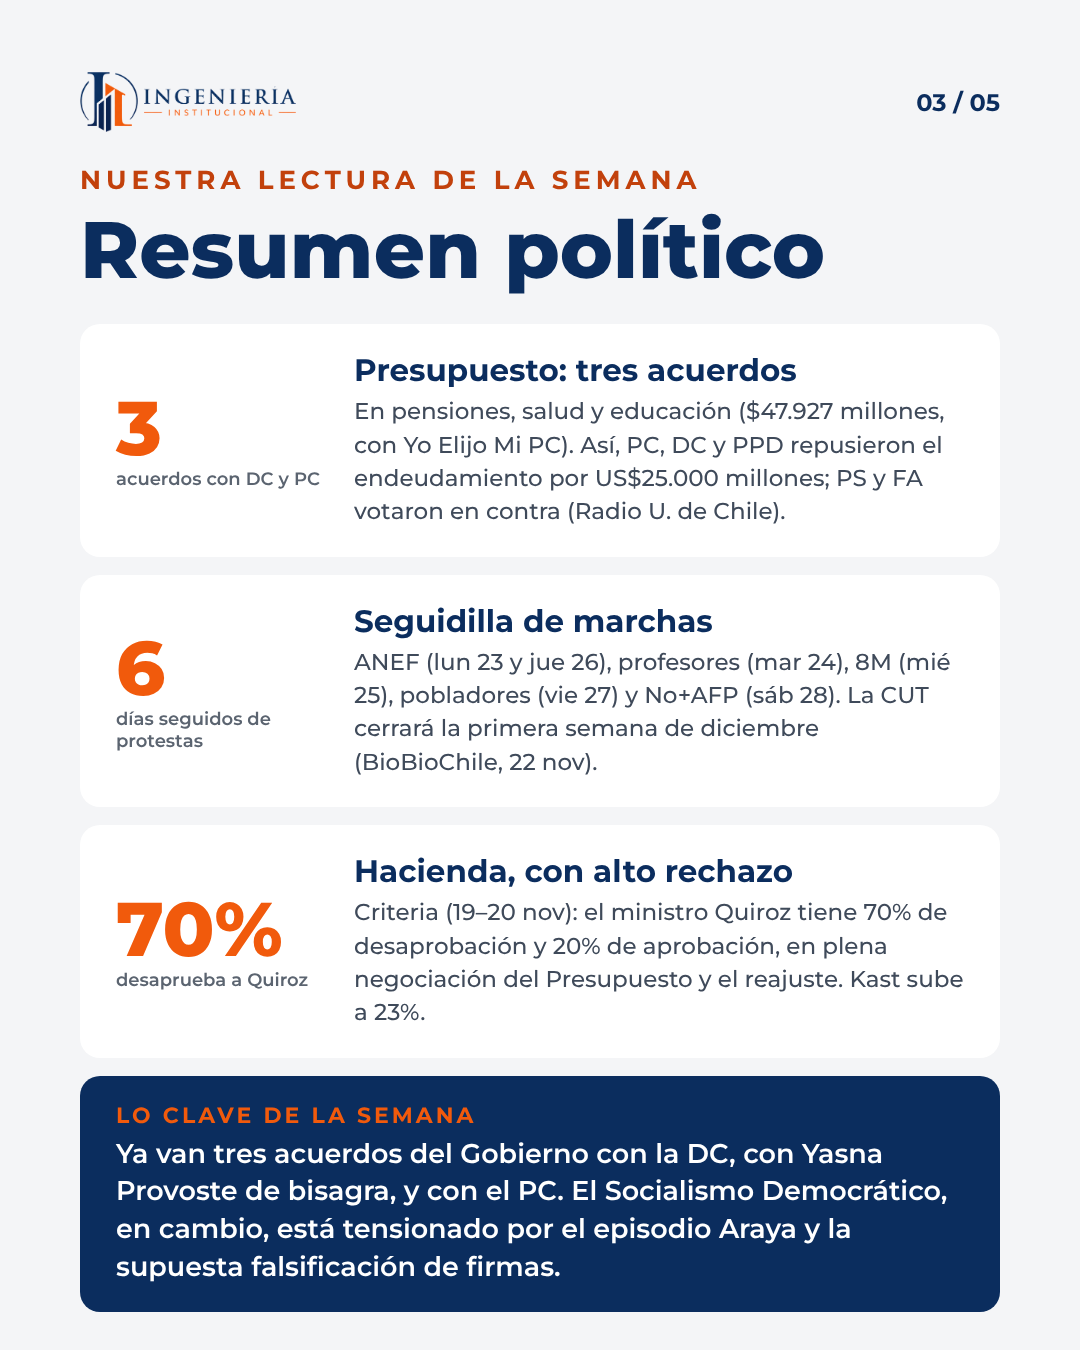
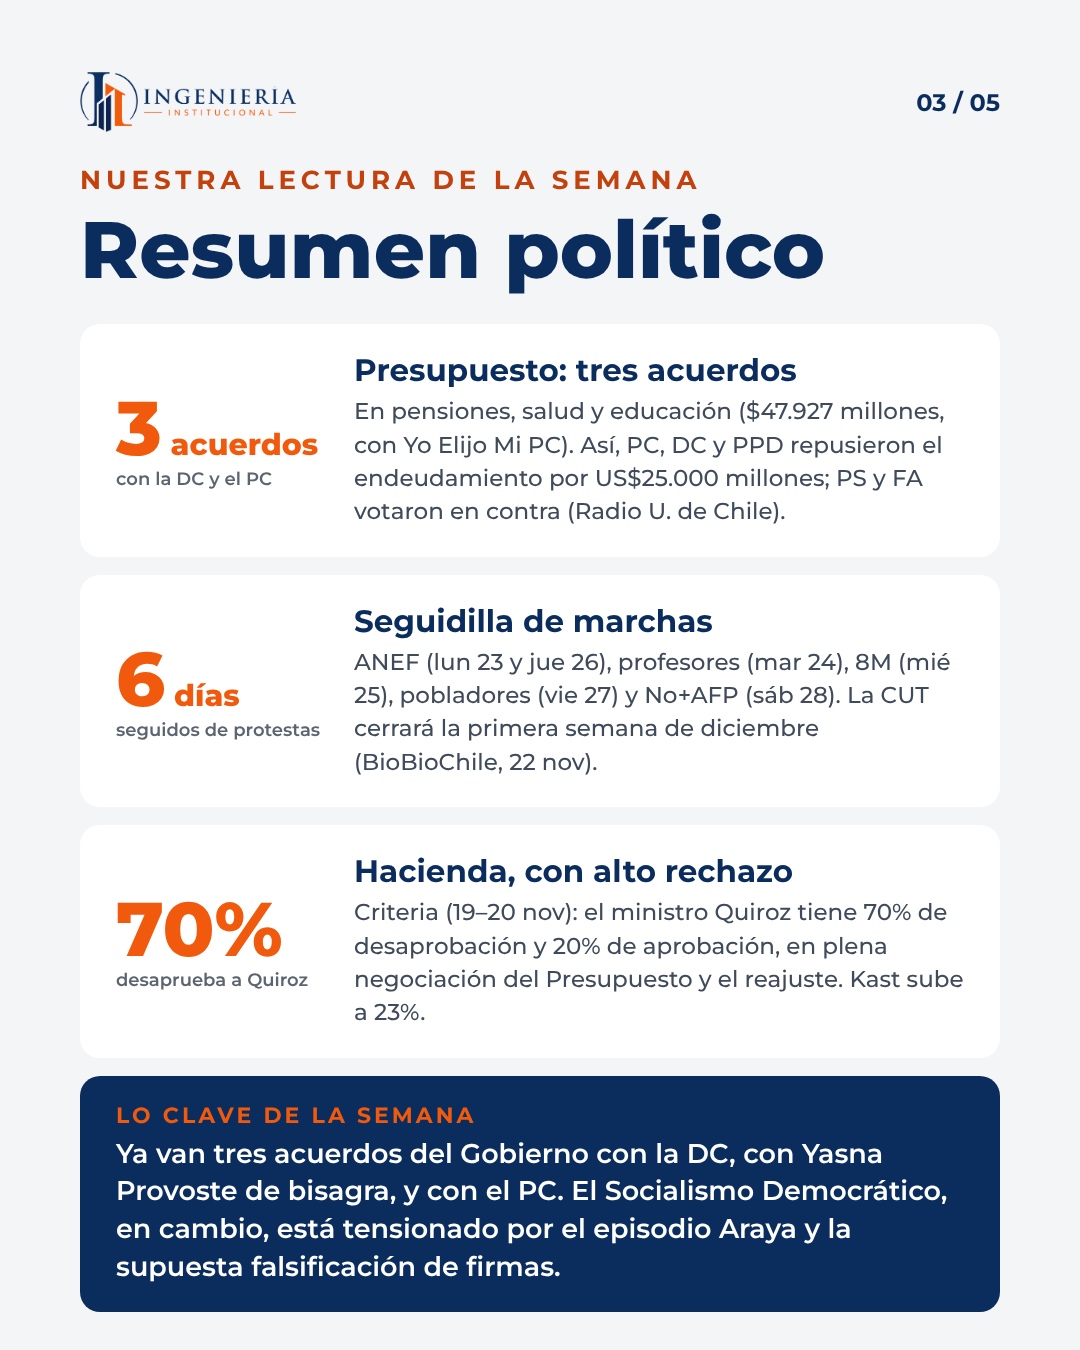
Carrusel: cifras del resumen político pueden llevar unidad ("6 días"); aplica en Edición N° 3

Changed region(s): [[0.0917, 0.4667, 0.3056, 0.56], [0.1222, 0.3111, 0.3056, 0.3733]]

diff --git a/plantillas/carrusel.js b/plantillas/carrusel.js
@@ -77,7 +77,11 @@
     (ed.resumen.items || []).slice(0, 3).forEach((r) => {
       const c = css(el('div'), 'background:#fff;border-radius:20px;padding:28px 36px;display:flex;gap:28px;align-items:center');
       const izq = css(el('div'), 'flex:none;width:210px;display:flex;flex-direction:column;gap:2px');
-      izq.append(css(el('span', null, r.cifra), `font-size:76px;font-weight:800;color:${ORANGE};line-height:1`), css(el('span', null, r.etiqueta), `font-size:18px;font-weight:600;color:${GRAY}`));
+      // Si la cifra trae una unidad ("6 días"), el número va grande y la unidad más chica en la misma línea.
+      const [num, ...uni] = String(r.cifra).split(' ');
+      const cifra = css(el('span', null, num), `font-size:76px;font-weight:800;color:${ORANGE};line-height:1;white-space:nowrap`);
+      if (uni.length) cifra.append(css(el('span', null, ' ' + uni.join(' ')), 'font-size:30px;font-weight:800'));
+      izq.append(cifra, css(el('span', null, r.etiqueta), `font-size:18px;font-weight:600;color:${GRAY}`));
       const der = css(el('div'), 'display:flex;flex-direction:column;gap:6px');
       der.append(css(el('h3', null, r.titulo), 'margin:0;font-size:31px;line-height:1.2;font-weight:700'), css(rich('p', null, r.texto), `margin:0;font-size:23px;line-height:1.45;font-weight:500;color:${BODY}`));
       c.append(izq, der);
